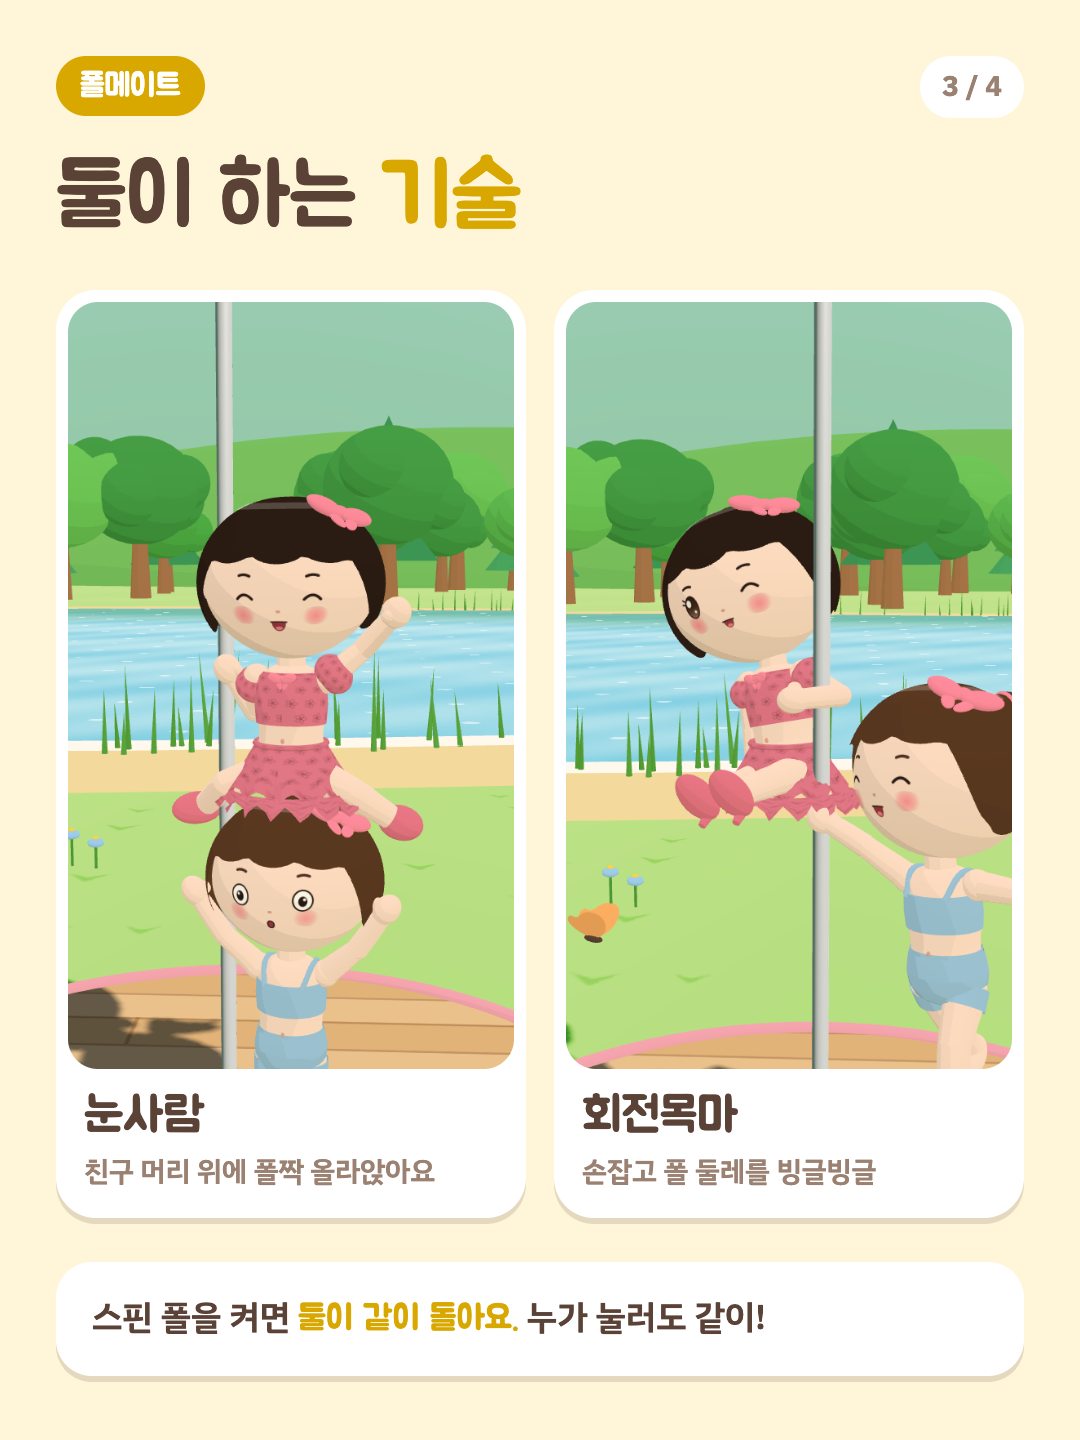
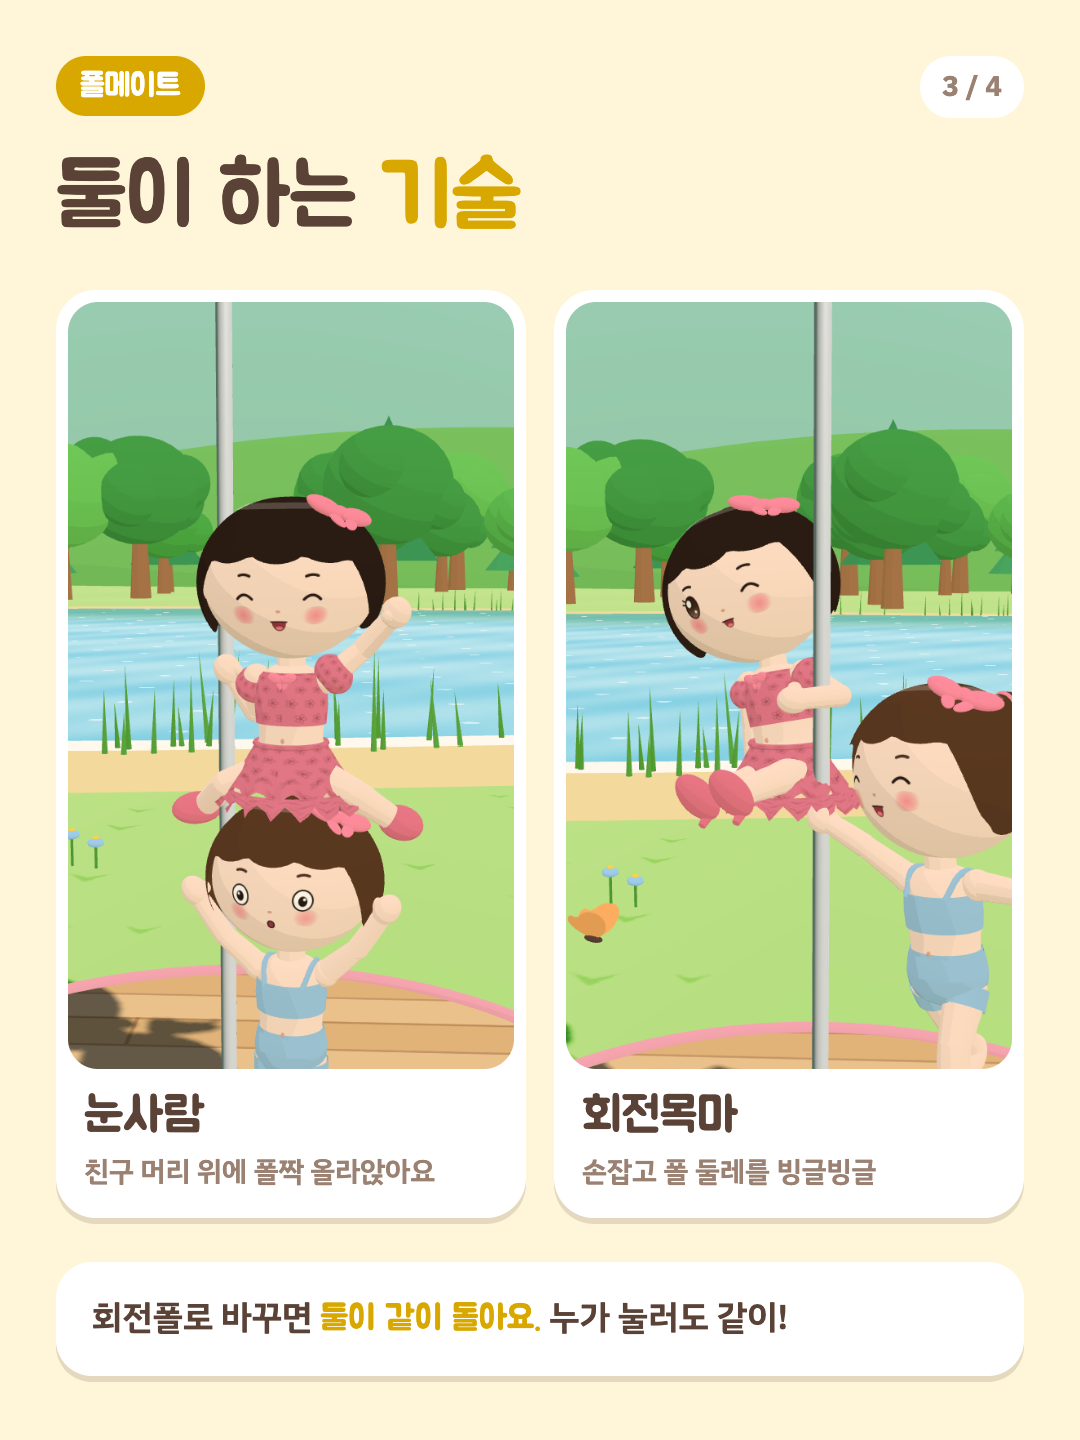
'스핀 폴' 버튼을 상태로 표시: 멈춰 있으면 '고정폴', 돌면 '회전폴'

Changed region(s): [[0.0917, 0.9062, 0.7333, 0.9375]]

diff --git a/marketing/instagram/posts.html b/marketing/instagram/posts.html
@@ -204,7 +204,7 @@ body.export .ab::before{display:none}
   <span class="series move">폴 기술 도감</span><span class="pageno">2 / 6</span>
   <h2 class="ititle">체어 <i>01</i></h2>
   <div class="photo"><img src="renders/move-chair.png" alt=""></div>
-  <div class="note">의자에 앉은 것처럼 <b>무릎을 접고</b> 폴 옆에 떠 있어요. </br>양손으로 폴을 꼭 잡아야해요!</div>
+  <div class="note">의자에 앉은 것처럼 <b>무릎을 접고</b> 폴 옆에 떠 있어요. </br>양손으로 폴을 꼭 잡기!</div>
 </section>
 
 <section class="ab inner move move-page" id="p02-3-ppose">
@@ -242,7 +242,7 @@ body.export .ab::before{display:none}
   <div class="steps">
     <div class="step"><i>1</i><div><div class="t">친구 캐릭터 누르기</div><div class="d">같은 호숫가에 있는 친구를 눌러요</div></div><div class="mock menu">같이 타기</div></div>
     <div class="step"><i>2</i><div><div class="t">수락 카드가 떠요</div><div class="d">친구가 10초 안에 수락하면 끝</div></div><div class="mock btn butter">수락</div></div>
-    <div class="step"><i>3</i><div><div class="t">둘이 폴로 쏙</div><div class="d">가까운 빈 폴로 같이 걸어가요</div></div><div class="mock thumb"><img src="renders/duo-sq-fly.png" alt=""></div></div>
+    <div class="step"><i>3</i><div><div class="t">폴에 함께 매달려요</div><div class="d">'회전'을 누르면 같이 빙빙</div></div><div class="mock thumb"><img src="renders/duo-sq-fly.png" alt=""></div></div>
   </div>
   <div class="note">한 명이 내려오면 같이 타기가 끝나고, <b>남은 사람은 혼자</b> 계속 탈 수 있어요.</div>
 </section>
@@ -254,7 +254,7 @@ body.export .ab::before{display:none}
     <div class="card"><div class="ph"><img src="renders/duo-sq-stack.png" alt=""></div><b>눈사람</b><span>친구 머리 위에 폴짝 올라앉아요</span></div>
     <div class="card"><div class="ph"><img src="renders/duo-sq-fly.png" alt=""></div><b>회전목마</b><span>손잡고 폴 둘레를 빙글빙글</span></div>
   </div>
-  <div class="note">스핀 폴을 켜면 <b>둘이 같이 돌아요.</b> 누가 눌러도 같이!</div>
+  <div class="note">회전폴로 바꾸면 <b>둘이 같이 돌아요.</b> 누가 눌러도 같이!</div>
 </section>
 
 <section class="ab inner mate" id="p03-4-chat">

diff --git a/index.html b/index.html
@@ -1710,7 +1710,7 @@ MOVE_ORDER.forEach(n => {
   movesEl.appendChild(b);
 });
 // on the pole, getting down and the spin toggle take the sit button's place at the front (always on screen)
-movesEl.querySelector('#sitSep').insertAdjacentHTML('beforebegin', '<button id="spinTog" class="move side" type="button" aria-pressed="false" hidden><span>스핀 폴</span></button>');
+movesEl.querySelector('#sitSep').insertAdjacentHTML('beforebegin', '<button id="spinTog" class="move side" type="button" aria-pressed="false" hidden><span>고정폴</span></button>');
 // double pole moves: only while my pole-mate and I are both on our pole
 const DUO_MOVES = [['stack', '눈사람'], ['fly', '회전목마']];
 DUO_MOVES.forEach(([k, label]) => {
@@ -1744,6 +1744,7 @@ const spinTog = document.getElementById('spinTog');
 // spin the pole (stops where it is); while sharing a pole the mate's spin goes on and off with mine
 function setSpin(on, fromMate){
   spinPole = on; spinTog.setAttribute('aria-pressed', String(on));
+  spinTog.firstElementChild.textContent = on ? '회전폴' : '고정폴';   // 버튼 글자가 지금 폴 상태를 보여 줌
   if (!on) poseYaw = holder.rotation.y + (POSES[poseName].view || 0);
   netState();
   if (!fromMate && myMate) netSend({ t:'duoSpin', on });

diff --git a/CLAUDE.md b/CLAUDE.md
@@ -37,7 +37,7 @@
 |---|---|
 | 1–33 | `<head>`: 제목, 설명·OG 태그, 파비콘, GA4 로더(`GA_ID`, `polkTrack`), 폰트 |
 | 34–126 | `<style>`: 크림색 둥근 패널 UI, 입장 화면, 이름표, 메뉴 숨기기(`body.clean`), 640px 이하 모바일 |
-| 127–178 | HTML: `#scene`, `.brand`(+접속 인원 `#netText`), `.corner`(아이콘: 전체 보기·메뉴 숨기기·옷장·설정), `#entry`(닉네임 입장), `#nameTag`, `#wardrobe`, `#settings`(닉네임, 이름·채팅 보기, BGM·곡, 조작법, 저작권), `.hud`(동작 바: 폴 밖에선 앉기, 폴 위에선 내려오기·스핀 폴이 맨 앞 / 그 아래 표정 버튼+채팅 줄), `#uiShow`, `#loading`(로딩 화면) |
+| 127–178 | HTML: `#scene`, `.brand`(+접속 인원 `#netText`), `.corner`(아이콘: 전체 보기·메뉴 숨기기·옷장·설정), `#entry`(닉네임 입장), `#nameTag`, `#wardrobe`, `#settings`(닉네임, 이름·채팅 보기, BGM·곡, 조작법, 저작권), `.hud`(동작 바: 폴 밖에선 앉기, 폴 위에선 내려오기·고정폴/회전폴 토글이 맨 앞 / 그 아래 표정 버튼+채팅 줄), `#uiShow`, `#loading`(로딩 화면) |
 | 179–228 | three.js, renderer/scene, 공용 툰 셰이딩(`grad`, `TOON_K`, `tcol`, `toon`/`toonF`), `canvasTex()` |
 | 229–496 | 하늘, 조명, 호수(`LAKE`, `inLake()`, `lakeShape()`), 잔디·꽃, 나무·덤불·언덕·구름, 데크 무대 + 실버 폴 5개(`POLES`, `STAGE_R`, `onStage()`, `nearestPole()`, `POLE_H`, `STAGE_H`) |
 | 497–590 | 소품: 징검돌, 벤치(`BENCHES`), 표지판, 울타리, 바위(`OBSTACLES`), 나비 |
@@ -78,7 +78,7 @@
 - 입장 화면: 닉네임(최대 12자) 입력 후 입장. 다시 들어오면 저장된 이름이 미리 채워짐. 설정 서랍 맨 위 "닉네임"에서 변경
 - 닉네임 태그: HTML 요소(`#nameTag`)를 머리 위 월드 좌표를 투영해 매 프레임 배치(`updateNameTag`). 거꾸로 매달린 포즈에서는 가장 높은 쪽 위로. "이름 표시/숨김" 토글
 - 첫 방문엔 옷·헤어·색을 랜덤으로 골라 바로 저장(`pole-outfit-v2`가 없을 때만), 다시 오면 저장된 모습 그대로
-- 더블폴(같이 타기): 다른 캐릭터를 누르면 "같이 타기" 메뉴 → 상대에게 수락 카드(10초) → 수락하면 두 사람 중간에서 가까운 빈 폴을 둘 몫으로 잡고 양옆으로 걸어가 레디. 둘 다 폴 위면 동작 바에 "눈사람"(코드 이름 stack, 예전 이름 쌓기)·"회전목마". 누른 사람이 위(`duo…Top`), 짝이 아래(`duo…Base`, 위 사람의 폴 회전을 따라감: 내 화면은 `duoTick`, 다른 사람 화면은 `update`에서 같은 폴의 위 캐릭터를 찾아 회전 복사). 같이 타는 중 스핀 폴은 누가 누르든 둘 다 켜지고 꺼짐(`setSpin`, `duoSpin`). 한 명이 내려오거나 다른 폴로 가면 끝나고 남은 사람은 폴을 혼자 잡음. 자세 미리보기 `__poleDebug.duo('stack'|'fly')`
+- 더블폴(같이 타기): 다른 캐릭터를 누르면 "같이 타기" 메뉴 → 상대에게 수락 카드(10초) → 수락하면 두 사람 중간에서 가까운 빈 폴을 둘 몫으로 잡고 양옆으로 걸어가 레디. 둘 다 폴 위면 동작 바에 "눈사람"(코드 이름 stack, 예전 이름 쌓기)·"회전목마". 누른 사람이 위(`duo…Top`), 짝이 아래(`duo…Base`, 위 사람의 폴 회전을 따라감: 내 화면은 `duoTick`, 다른 사람 화면은 `update`에서 같은 폴의 위 캐릭터를 찾아 회전 복사). 같이 타는 중 회전폴(버튼 글자: 멈춰 있으면 "고정폴", 돌면 "회전폴")은 누가 누르든 둘 다 켜지고 꺼짐(`setSpin`, `duoSpin`). 한 명이 내려오거나 다른 폴로 가면 끝나고 남은 사람은 폴을 혼자 잡음. 자세 미리보기 `__poleDebug.duo('stack'|'fly')`
 - 방: 입장 화면과 설정 서랍에서 "1번~5번 호숫가" 중 고름(방별 인원 표시, 꽉 찬 방은 못 누름, 마지막 방 기억 `pole-room`)
 - 접속 인원 문구: "N번 호숫가 · 폴메이트 N명과 함께 있어요!"(N은 나를 뺀 인원, 0명이면 "폴메이트를 기다리는 중이에요")
 - 로딩 화면 `#loading`: 처음엔 첫 프레임이 그려지고 폰트가 올 때까지(최대 2.5초, 최소 페이지 연 뒤 1.5초) 하늘색 화면, three.js를 못 받으면 새로고침 안내. 방 입장·이동 중엔 흐린 화면에 "N번 호숫가로 이동하는 중…"(최소 0.7초, welcome·거절이 오면 닫힘, 7초 넘으면 닫고 혼자 놀기 안내)
